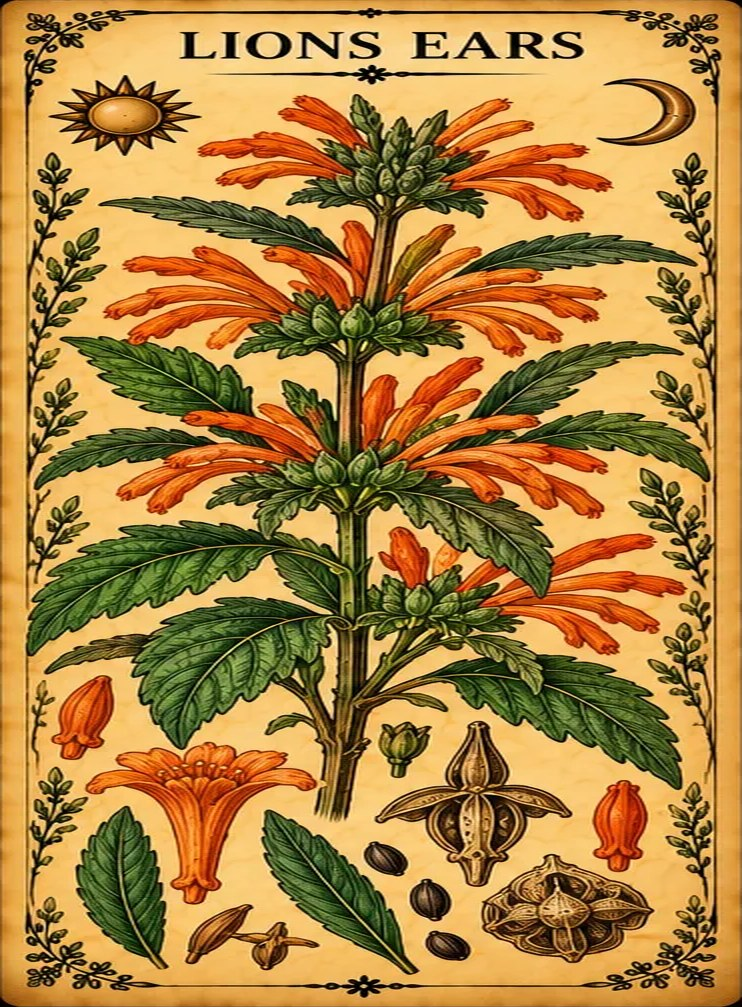
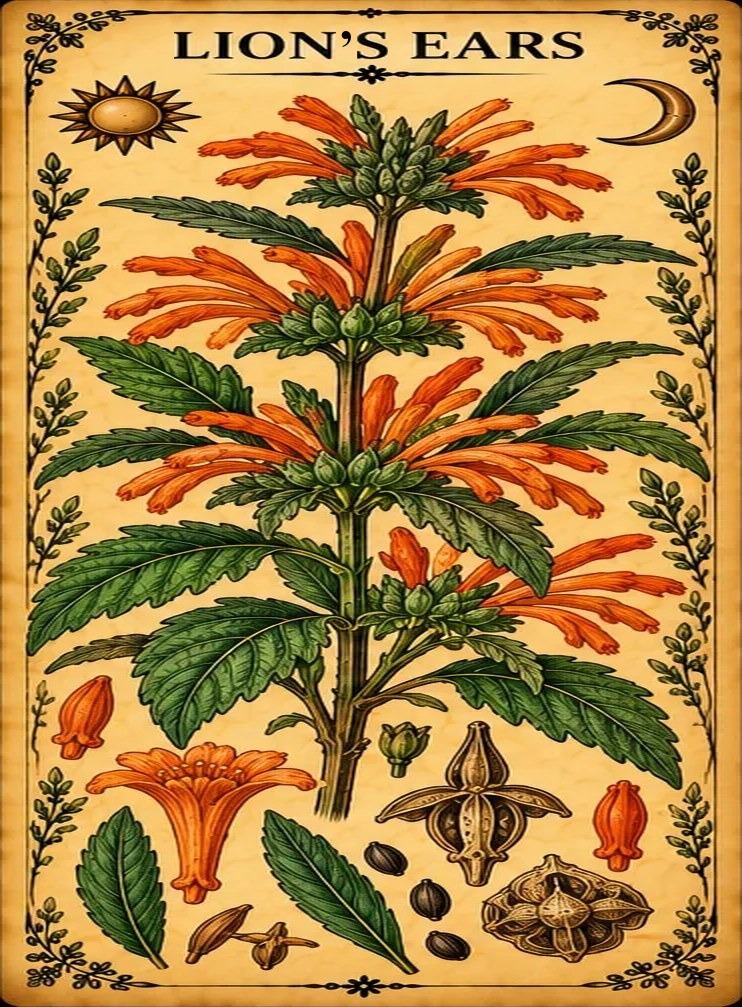
Expand Search Mi Heart; add apostrophe to Lion's Ears card
Adds traditional uses, preparation and cautions from a Jamaican herb
seller's article (Herbhearts 2025), labelled as such since it cites no
research, with links to heart, blood pressure, circulation, breathing,
digestion and fatigue topics and the names Heart Bush and Heart Leaf.

Changed region(s): [[0.217, 0.0308, 0.527, 0.0616]]

diff --git a/prisma/populate-search-mi-heart.ts b/prisma/populate-search-mi-heart.ts
@@ -4,8 +4,9 @@ import { run } from "./lib/populate-herb";
 // of Jamaican medicinal plants (Lowe et al. 2021, source of the cold-and-flu
 // use, preparation and native range), the Natural History Museum of Jamaica's
 // common name database, and Jarvis (2007) on its original description from
-// Jamaica. No lab, animal or human research on it was found, and no sources on
-// its safety, so the page leaves those sections empty rather than filling them.
+// Jamaica. Further traditional uses, preparation and cautions come from a
+// Jamaican herb seller's article (Herbhearts 2025), which cites no research.
+// No lab, animal or human research on it was found.
 
 run({
   name: "Search Mi Heart",
@@ -46,11 +47,22 @@ run({
       sourceType: "secondary",
       tier: "TIER_5_SECONDARY",
     },
+    herbhearts: {
+      title: "Search Mi Heart Tea",
+      author: "Chris",
+      organization: "Herbhearts (Westmoreland, Jamaica)",
+      publicationDate: "2025-03-28",
+      url: "https://herbhearts.com/2025/03/28/search-mi-heart-tea/",
+      sourceType: "secondary",
+      tier: "TIER_5_SECONDARY",
+    },
   },
   synonyms: [
     { name: "Search-me-heart", type: "REGIONAL_NAME", region: "Jamaica" },
     { name: "Search Me Heart", type: "COMMON_NAME" },
     { name: "Search My Heart", type: "COMMON_NAME" },
+    { name: "Heart Bush", type: "REGIONAL_NAME", region: "Jamaica" },
+    { name: "Heart Leaf", type: "REGIONAL_NAME", region: "Jamaica" },
     { name: "Gesneria tomentosa", type: "SCIENTIFIC_SYNONYM" },
   ],
   traditions: [
@@ -71,9 +83,37 @@ run({
       summary: "Listed by the Natural History Museum of Jamaica under the common name search-me-heart.",
       source: "nhmj",
     },
+    {
+      category: "TRADITIONAL",
+      summary:
+        "A Jamaican herb seller's website says search mi heart has been used for centuries in Jamaican folk medicine, including by the Maroons. It says many Jamaican adults remember being given the tea as children for colds.\nThe site lists these traditional uses:\n- The heart: steadying the heartbeat and improving circulation\n- Breathing problems: asthma, bronchitis and chest congestion\n- High blood pressure\n- Indigestion, bloating and stomach discomfort\n- Energy and stamina\nThe site doesn't cite any research for these uses.",
+      source: "herbhearts",
+    },
+    {
+      category: "TRADITIONAL",
+      summary:
+        "The same site describes steeping 1 to 2 dried leaves in 2 cups of boiling water for 5 to 10 minutes, or 15 to 20 minutes for a stronger tea. Honey, ginger or lime may be added. It also mentions herbal baths, tinctures and compresses made from the plant.",
+      source: "herbhearts",
+    },
+  ],
+  safety: [
+    {
+      category: "CONTRAINDICATION",
+      description:
+        "No research has tested its safety. A Jamaican herb seller advises talking to a doctor before using it if you:\n- Are pregnant or breastfeeding\n- Have heart disease or high blood pressure\n- Take heart or blood pressure medicines",
+      source: "herbhearts",
+    },
   ],
   symptoms: [
     { slug: "colds-and-congestion", notes: "An anecdotal Jamaican remedy for colds. It hasn't been studied in research." },
     { slug: "seasonal-immune-support", notes: "An anecdotal Jamaican remedy for colds and flu. It hasn't been studied in research." },
+    { slug: "heart-palpitations", notes: "Traditionally used in Jamaica to steady the heartbeat, according to a Jamaican herb seller. It hasn't been studied in research." },
+    { slug: "poor-circulation", notes: "Traditionally used in Jamaica for circulation, according to a Jamaican herb seller. It hasn't been studied in research." },
+    { slug: "high-blood-pressure", notes: "Traditionally used in Jamaica for high blood pressure, according to a Jamaican herb seller. It hasn't been studied in research." },
+    { slug: "asthma-and-wheezing", notes: "Traditionally used in Jamaica for asthma, according to a Jamaican herb seller. It hasn't been studied in research." },
+    { slug: "chest-congestion", notes: "Traditionally used in Jamaica for bronchitis and chest congestion, according to a Jamaican herb seller. It hasn't been studied in research." },
+    { slug: "indigestion", notes: "Traditionally used in Jamaica for indigestion, according to a Jamaican herb seller. It hasn't been studied in research." },
+    { slug: "bloating", notes: "Traditionally used in Jamaica for bloating, according to a Jamaican herb seller. It hasn't been studied in research." },
+    { slug: "fatigue", notes: "Traditionally used in Jamaica for energy and stamina, according to a Jamaican herb seller. It hasn't been studied in research." },
   ],
 });

diff --git a/prisma/seed.ts b/prisma/seed.ts
@@ -1001,10 +1001,10 @@ const herbs = [
     name: "Search Mi Heart",
     scientificName: "Rhytidophyllum tomentosum",
     category: "Medicinal",
-    summary: "A Jamaican plant whose dried leaves are made into a bush tea, an anecdotal remedy for colds and flu. It hasn't been studied in research.",
-    uses: "Colds, Flu, Bush tea",
+    summary: "A Jamaican plant whose dried leaves are made into a bush tea, traditionally used for colds and flu, the heart, breathing problems and digestion. It hasn't been studied in research.",
+    uses: "Colds, Flu, Heart (traditional), Blood pressure (traditional), Asthma, Chest congestion, Indigestion, Bush tea",
     properties: "Folk remedy (not studied)",
-    cautions: "Its safety hasn't been studied.",
+    cautions: "Its safety hasn't been studied; check with a doctor first if you're pregnant, breastfeeding, or have heart disease or high blood pressure.",
     imageUrl: "/herbs/search-mi-heart.jpg",
   },
   {
